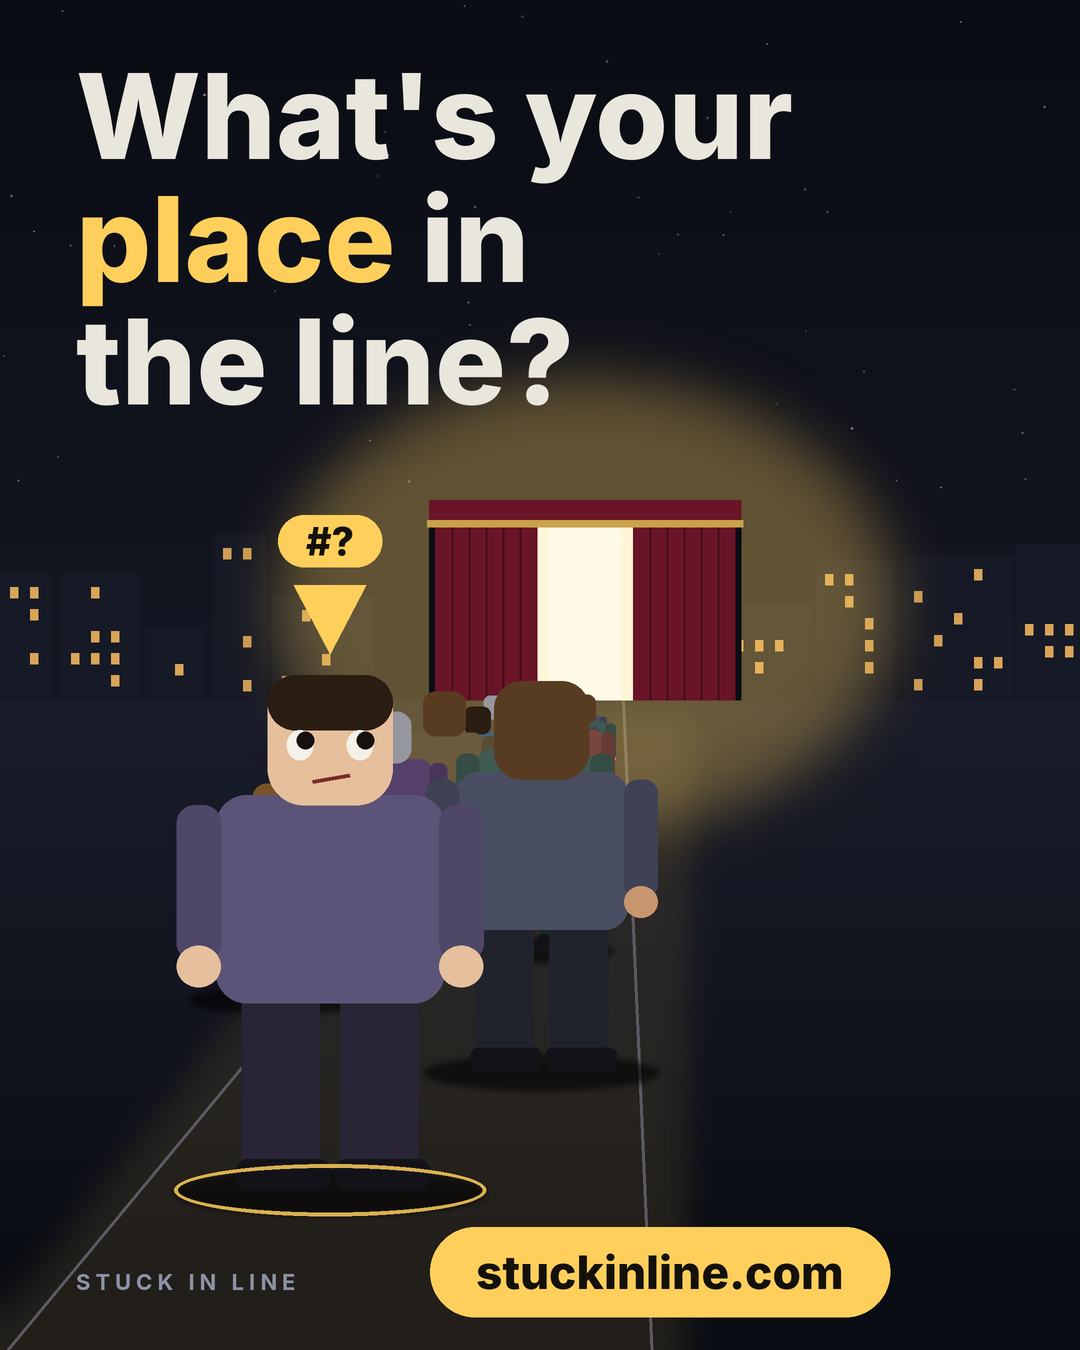
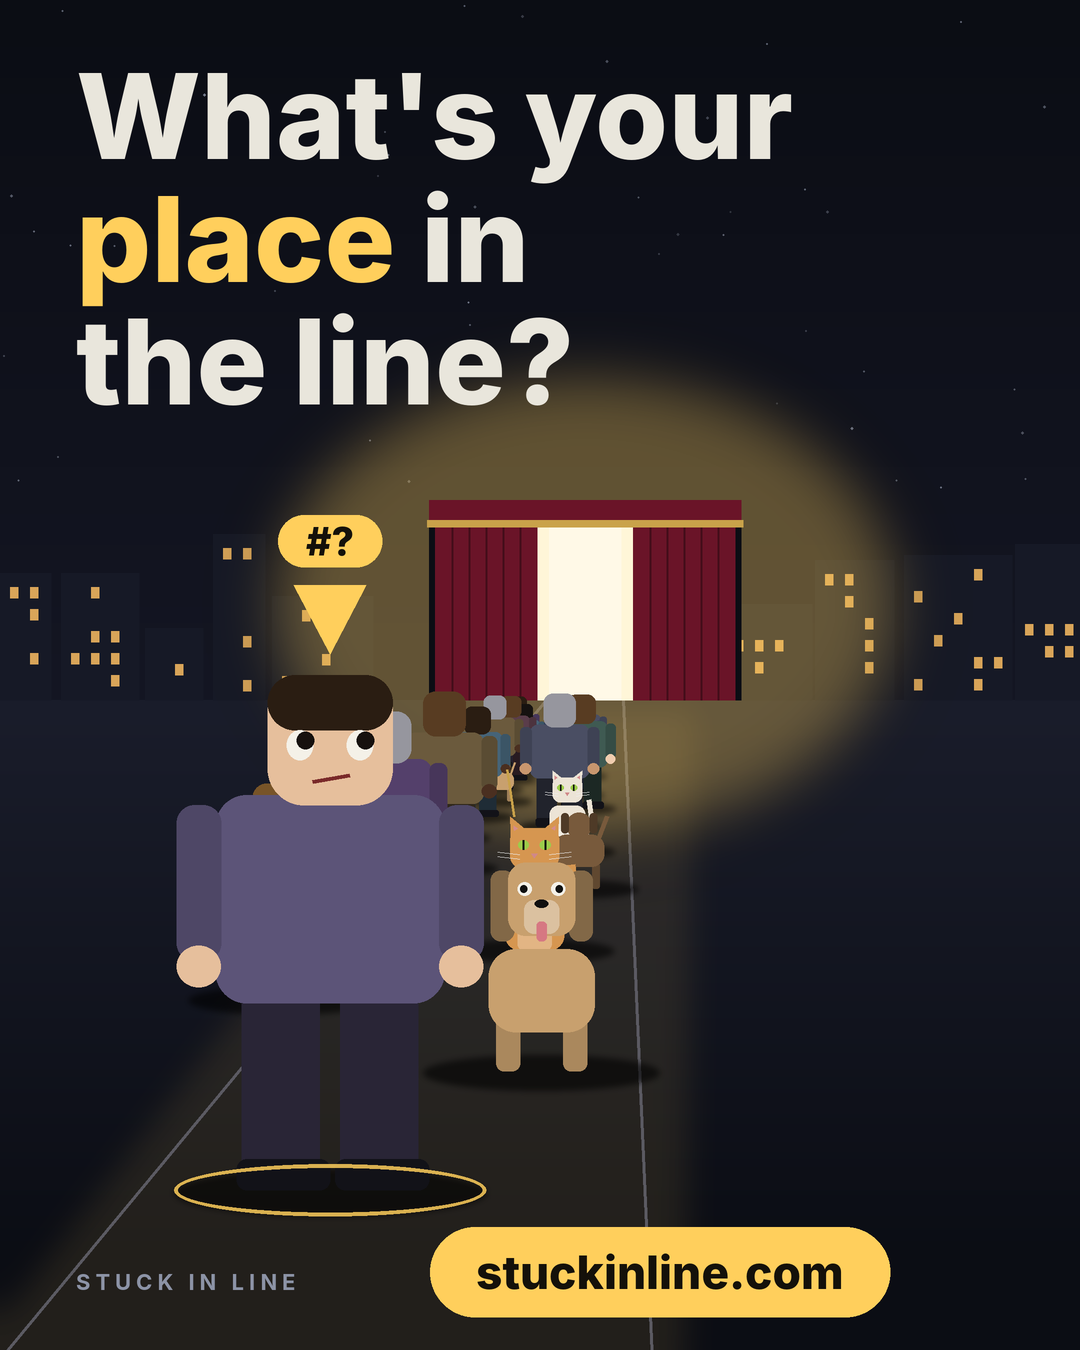
Add front-facing dog and cats to the social and OG scenes
Claude-Session: https://claude.ai/code/session_014gqzLpSQt25EMELh2E1ftw

Changed region(s): [[0.3972, 0.4978, 0.6111, 0.8089]]

diff --git a/scripts/build-brand-assets.py b/scripts/build-brand-assets.py
@@ -107,6 +107,49 @@ def dog(d, cx, base, H, coat):
     return base - 0.9 * u
 
 
+
+def dog_front(d, cx, base, H, coat):
+    """Seated-looking dog facing the camera: floppy ears, pink tongue, patient stare."""
+    u = H * 0.5
+    dark = shade(coat, -0.35)
+    for sx in (-1, 1):
+        d.rounded_rectangle([cx + sx * 0.17 * u - 0.06 * u, base - 0.36 * u, cx + sx * 0.17 * u + 0.06 * u, base], 0.04 * u, fill=shade(coat, -0.15))
+    d.rounded_rectangle([cx - 0.27 * u, base - 0.62 * u, cx + 0.27 * u, base - 0.2 * u], 0.14 * u, fill=coat)
+    hy = base - 0.86 * u
+    for sx in (-1, 1):
+        d.rounded_rectangle([cx + sx * 0.2 * u - 0.06 * u, hy - 0.16 * u, cx + sx * 0.2 * u + 0.06 * u, hy + 0.2 * u], 0.05 * u, fill=dark)
+    d.rounded_rectangle([cx - 0.17 * u, hy - 0.2 * u, cx + 0.17 * u, hy + 0.17 * u], 0.09 * u, fill=coat)
+    d.rounded_rectangle([cx - 0.09 * u, hy - 0.01 * u, cx + 0.09 * u, hy + 0.16 * u], 0.05 * u, fill=shade(coat, 0.35))
+    d.ellipse([cx - 0.035 * u, hy - 0.01 * u, cx + 0.035 * u, hy + 0.03 * u], fill=(16, 16, 16))
+    d.rounded_rectangle([cx - 0.025 * u, hy + 0.1 * u, cx + 0.025 * u, hy + 0.2 * u], 0.02 * u, fill=(214, 120, 130))
+    for sx in (-1, 1):
+        ex = cx + sx * 0.085 * u
+        d.ellipse([ex - 0.035 * u, hy - 0.1 * u, ex + 0.035 * u, hy - 0.03 * u], fill=C['paper'])
+        d.ellipse([ex - 0.018 * u + 0.006 * u * sx, hy - 0.085 * u, ex + 0.018 * u + 0.006 * u * sx, hy - 0.045 * u], fill=(16, 16, 16))
+    return hy - 0.2 * u
+
+
+def cat_front(d, cx, base, H, coat):
+    """Cat facing the camera: pointed ears, green slit eyes, whiskers, tail held high."""
+    u = H * 0.46
+    d.line([cx + 0.2 * u, base - 0.12 * u, cx + 0.34 * u, base - 0.4 * u, cx + 0.3 * u, base - 0.7 * u], fill=coat, width=max(2, int(0.07 * u)), joint='curve')
+    d.rounded_rectangle([cx - 0.24 * u, base - 0.62 * u, cx + 0.24 * u, base], 0.12 * u, fill=coat)
+    d.rounded_rectangle([cx - 0.14 * u, base - 0.3 * u, cx + 0.14 * u, base], 0.05 * u, fill=shade(coat, 0.3))
+    hy = base - 0.82 * u
+    for sx in (-1, 1):
+        d.polygon([(cx + sx * 0.19 * u, hy - 0.04 * u), (cx + sx * 0.2 * u, hy - 0.27 * u), (cx + sx * 0.05 * u, hy - 0.15 * u)], fill=coat)
+        d.polygon([(cx + sx * 0.16 * u, hy - 0.08 * u), (cx + sx * 0.17 * u, hy - 0.2 * u), (cx + sx * 0.09 * u, hy - 0.14 * u)], fill=(214, 140, 140))
+    d.rounded_rectangle([cx - 0.2 * u, hy - 0.18 * u, cx + 0.2 * u, hy + 0.15 * u], 0.1 * u, fill=coat)
+    for sx in (-1, 1):
+        ex = cx + sx * 0.09 * u
+        d.ellipse([ex - 0.045 * u, hy - 0.08 * u, ex + 0.045 * u, hy + 0.0], fill=(156, 204, 74))
+        d.rectangle([ex - 0.007 * u, hy - 0.08 * u, ex + 0.007 * u, hy + 0.0], fill=(16, 16, 16))
+        for dy in (0.04, 0.075):
+            d.line([cx + sx * 0.12 * u, hy + dy * u, cx + sx * 0.3 * u, hy + (dy - 0.02) * u], fill=(238, 238, 238), width=max(1, int(0.008 * u)))
+    d.polygon([(cx - 0.025 * u, hy + 0.03 * u), (cx + 0.025 * u, hy + 0.03 * u), (cx, hy + 0.07 * u)], fill=(208, 136, 136))
+    return hy - 0.27 * u
+
+
 # ---------------------------------------------------------------- scene
 def scene(W, H, horizon, vx, fg_x, fg_base, fg_h, stage_w, stage_h, left_clear=0):
     """left_clear: x below which no buildings/sky clutter is drawn (keeps text areas calm)."""
@@ -172,7 +215,7 @@ def scene(W, H, horizon, vx, fg_x, fg_base, fg_h, stage_w, stage_h, left_clear=0
     d.rectangle([s(sx0 - 6), s(sy0 - 10), s(sx1 + 6), s(sy0 + 14)], fill=C['velvet'])
     d.rectangle([s(sx0 - 8), s(sy0 + 10), s(sx1 + 8), s(sy0 + 17)], fill=C['brass'])
     # soft shadows under every figure, then the figures far to near
-    kinds = ['adult', 'adult', 'child', 'adult', 'senior', 'dog', 'adult', 'adult', 'child', 'adult', 'senior', 'adult', 'dog', 'adult', 'adult', 'child', 'adult', 'adult', 'senior', 'adult', 'adult', 'adult']
+    kinds = ['adult', 'dogf', 'child', 'catf', 'senior', 'dog', 'adult', 'catf', 'child', 'adult', 'senior', 'adult', 'dog', 'adult', 'adult', 'child', 'adult', 'adult', 'senior', 'adult', 'adult', 'adult']
     k = 0.32
     slots = []
     for i, kind in enumerate(kinds):
@@ -191,7 +234,11 @@ def scene(W, H, horizon, vx, fg_x, fg_base, fg_h, stage_w, stage_h, left_clear=0
         cloth = CLOTH[(i * 3 + 1) % len(CLOTH)]
         hair = HAIR[(i * 2) % len(HAIR)]
         skin = SKIN[i % len(SKIN)]
-        if kind == 'dog':
+        if kind == 'dogf':
+            dog_front(d, s(x), s(y), s(hh), (200, 160, 110))
+        elif kind == 'catf':
+            cat_front(d, s(x), s(y), s(hh), (214, 150, 80) if i == 3 else (236, 228, 214))
+        elif kind == 'dog':
             dog(d, s(x), s(y), s(hh), shade(rnd_choice(i), 0))
         elif i == 0:
             top_of_fg = person(d, s(x), s(y), s(hh), 'adult', (92, 84, 120), (42, 29, 18), SKIN[0], front=True)
